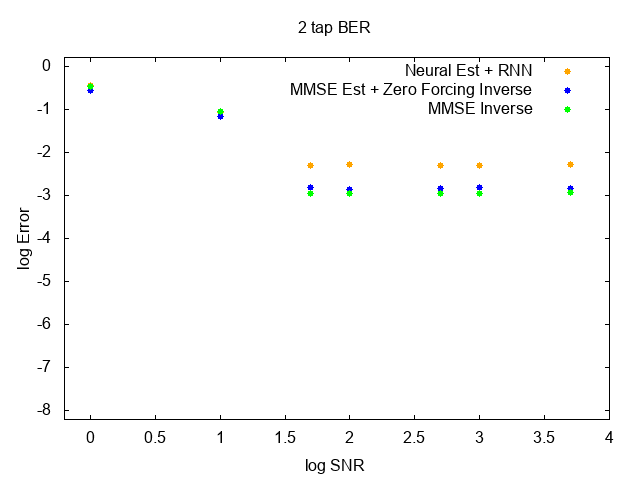
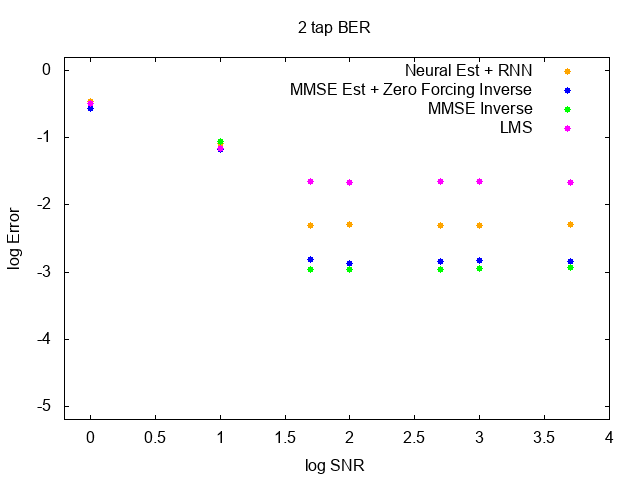
finish integrating LMS

diff --git a/equalizer/model/classic.py b/equalizer/model/classic.py
@@ -92,3 +92,40 @@ class ClassicTap(object):
     
     def estimate(self, recv):
         return self.eq.estimate(recv)
+
+def lms(pream_recv, pream, order, mu=0.1):
+    # init weights to random complex values
+    # (..., order)
+    w_size = pream.shape[:-1] + (order,)
+    w = np.random.normal(size=w_size) + 1j * np.random.normal(size=w_size)
+
+    # (..., length)
+    e = np.zeros(pream_recv.shape, dtype=np.complex_)
+    left = (order - 1) // 2
+    pad_size = ((0, 0),) * (pream.ndim - 1) + ((left, order - 1 - left),)
+    pream_recv = np.pad(pream_recv, pad_size, 'constant')
+
+    for i in range(pream.shape[-1]):
+        x = pream_recv[..., i:i+order]
+        # apply the FIR to get current output
+        y = np.einsum('...i,...i->...', x, w)
+        # compute latest error
+        e[..., i] = pream[..., i] - y # cost / error
+        # update weights
+        w += mu * e[..., i:i+1] * x.conj()
+
+    return w, e
+
+class LMS(object):
+    def __init__(self, order, algo=lms):
+        self.algo = lambda s, r: algo(offline.to_complex(r), offline.to_complex(s), order)
+    
+    def update_preamble(self, pream, pream_recv):
+        w, e = self.algo(pream, pream_recv)
+        self.errors = e
+        self.inv = im_tap(np.flip(w, axis=-1))
+    
+    def estimate(self, recv):
+        print(self.inv.shape)
+        print(recv.shape)
+        return tap_proc(self.inv, recv)

diff --git a/zf-mmse.py b/zf-mmse.py
@@ -1,7 +1,7 @@
 import numpy as np
 import torch
 import equalizer.util.offline as offline
-from equalizer.model.classic import ZeroForcing, MMSEInverse, MMSEEstimator, MMSEEqualizer, ClassicTap
+from equalizer.model.classic import ZeroForcing, MMSEInverse, MMSEEstimator, MMSEEqualizer, ClassicTap, LMS
 from equalizer.model.tap import TapEstimator
 from tqdm import tqdm
 
@@ -18,15 +18,16 @@ eps = 0
 eval_size = 10000
 payload_size = 200
 eval_snr = [1, 10, 50, 100, 500, 1000, 5000]
-eval_dat = 'figure/zf-mmse-ber.dat'
+eval_dat = 'figure/lms-ber.dat'
 
 if __name__ == "__main__":
     est = MMSEEstimator(model_tap_size)
     zf = ClassicTap(est, ZeroForcing, expand=expand, trunc=order, eps=eps)
     mmse1 = MMSEInverse(order)
     # mmse2 = ClassicTap(est, MMSEEqualizer)
+    lms = LMS(3)
 
-    models = [zf, mmse1]
+    models = [lms]
     bers = [ eval_snr ]
     for model in models:
         bers.append(list(offline.eval_e2e(model, pream_size, payload_size, model_tap_size, snr, eval_size) for snr in tqdm(eval_snr)))

diff --git a/equalizer/util/offline.py b/equalizer/util/offline.py
@@ -16,6 +16,12 @@ def to_torch(x):
 def to_numpy(x):
     return x.detach().cpu().numpy().astype(np.float)
 
+def to_complex(x):
+    return x[..., 0] + x[..., 1] * 1j
+
+def to_vec(x):
+    return np.stack((np.real(x), np.imag(x)), axis=-1)
+
 def gen_qpsk(batch_size, seq_size):
     """
     generate qpsk data
